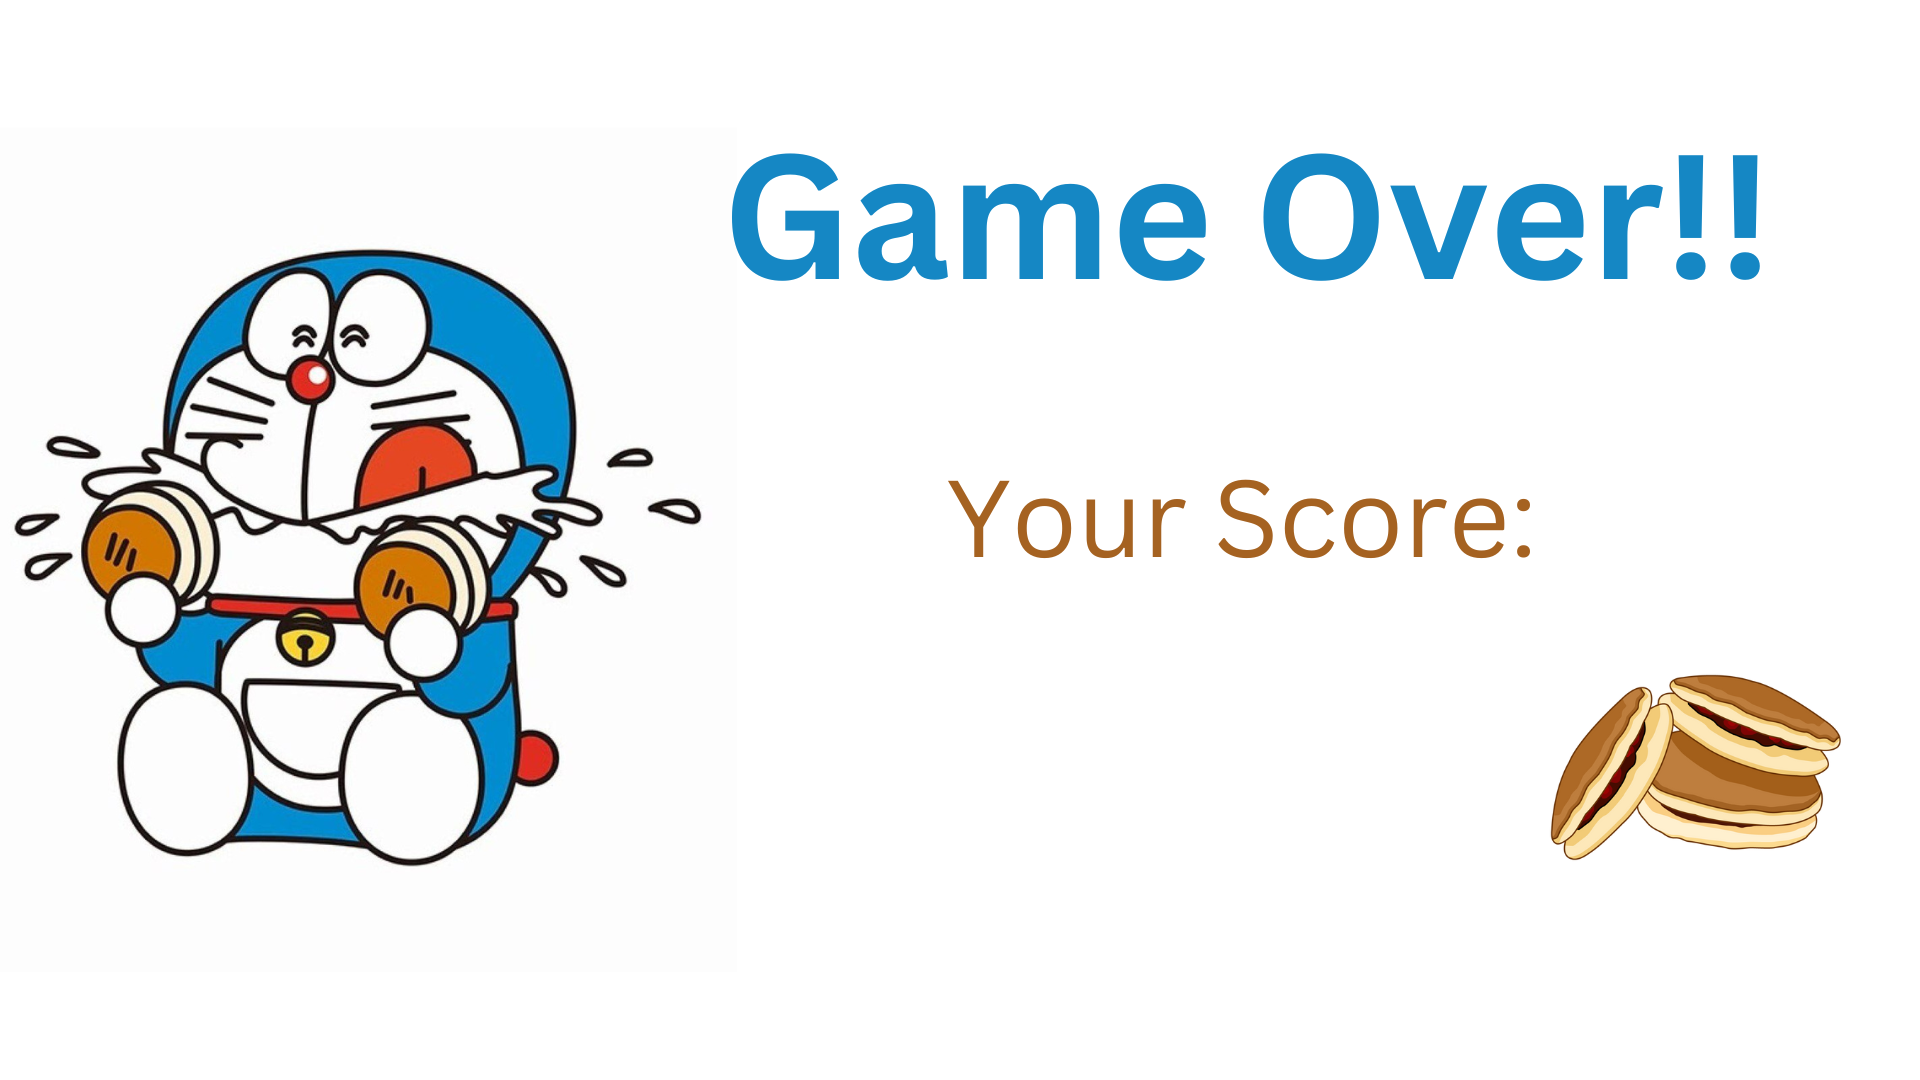
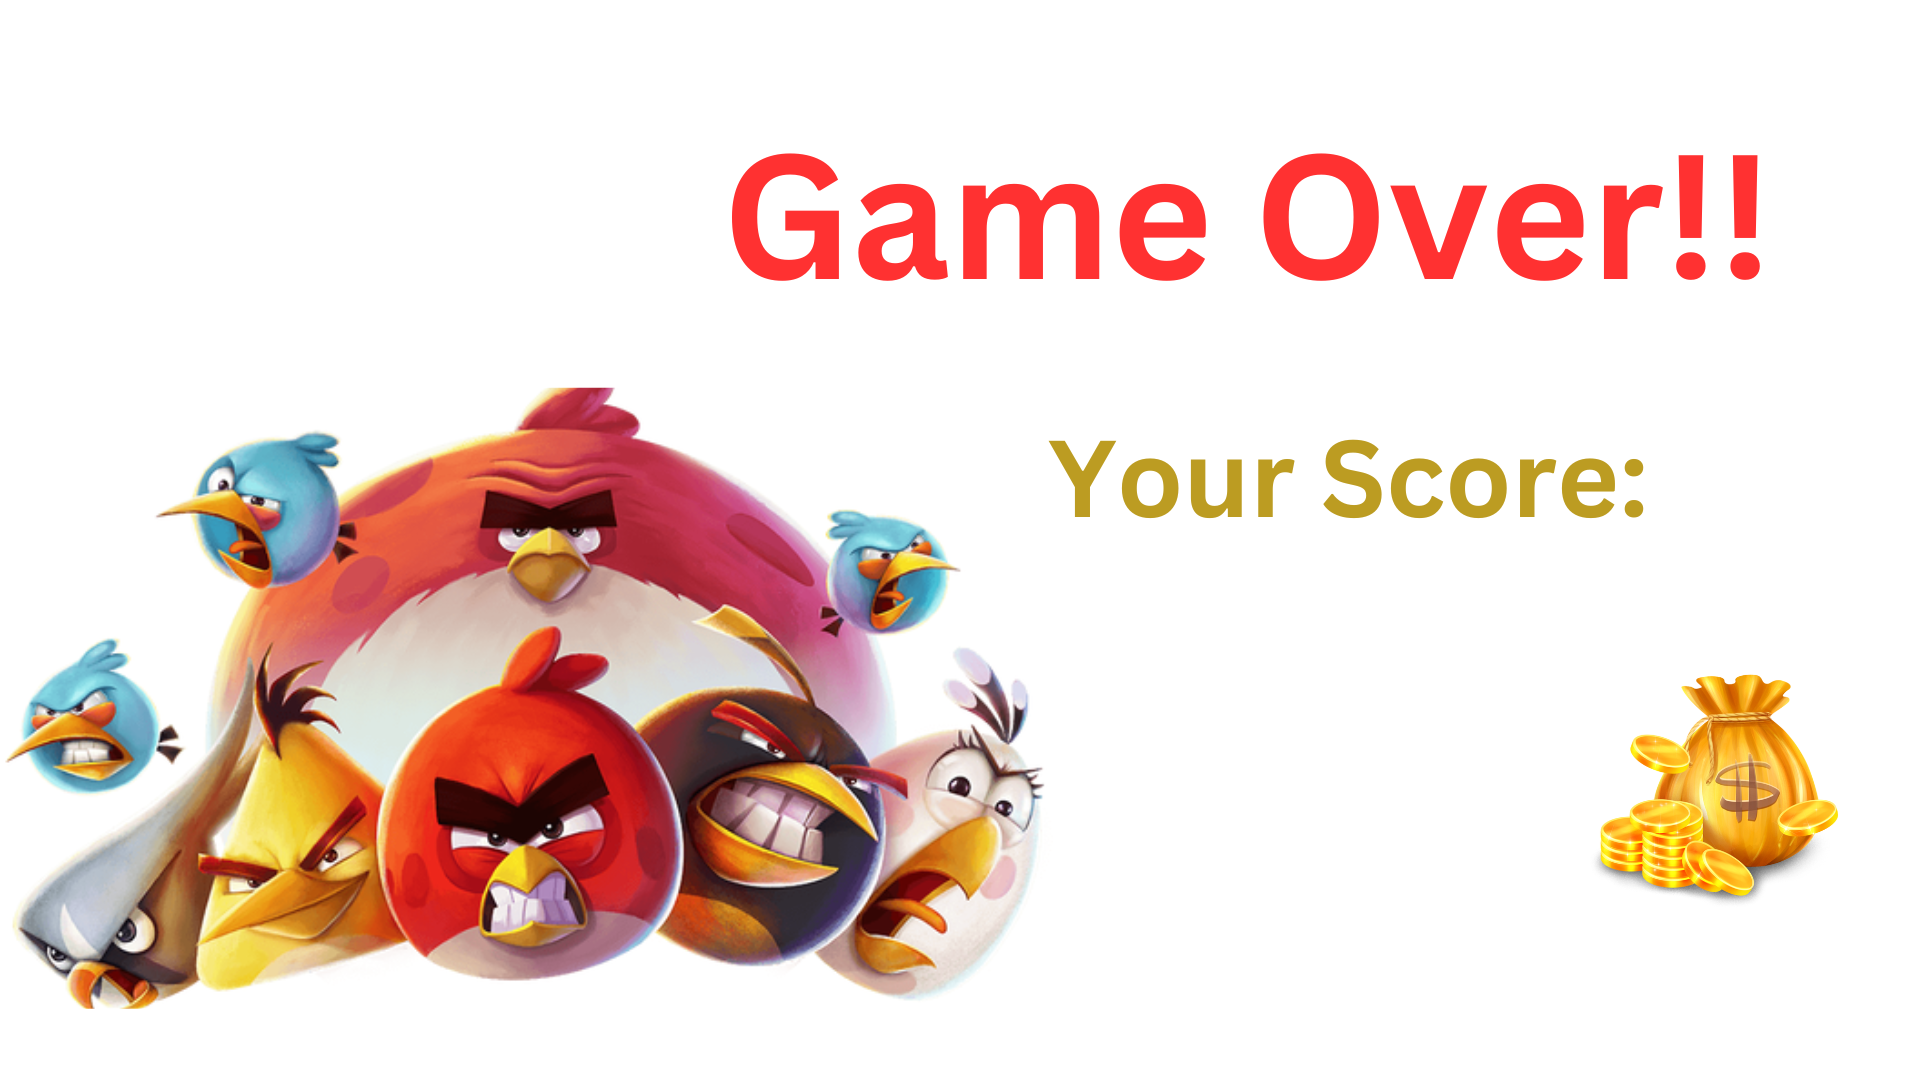
Greedy Birds game1

diff --git a/GreedyBird.py b/GreedyBird.py
@@ -2,6 +2,7 @@ from cvzone.FaceMeshModule import FaceMeshDetector
 import cv2
 import sys,time,random,pygame,os
 from collections import deque
+from Pipes import Pipe,PipeImages
 fpsClock = pygame.time.Clock()
 
 pygame.init()
@@ -9,33 +10,28 @@ cap = cv2.VideoCapture(0,cv2.CAP_DSHOW)
 cap.set(3,1280)
 cap.set(4,720)
 screen=pygame.display.set_mode((1280,720),pygame.RESIZABLE)
-pygame.display.set_caption("Foodie Doraemon")
+pygame.display.set_caption("Greedy Birds")
 pygame.mixer.init()
 pygame.mixer.music.load("Assests\music.mp3")
 pygame.mixer.music.set_volume(1.6)
 pygame.mixer.music.play(-1)
 
-doraemon = pygame.image.load("Assests\doraemon.png")
-doraemon = pygame.transform.scale(doraemon, (doraemon.get_width() / 6, doraemon.get_height() / 6))
-doraemon_frame = doraemon.get_rect()
-doraemon_frame.center = (1280 // 6, 720 // 2)
+birdSprite=[f"Assests\\birds\\{n}.png" for n in range(1,8)]
+bird = pygame.image.load(birdSprite[0])
+bird = pygame.transform.scale(bird, (bird.get_width() / 7, bird.get_height() / 7))
+bird_frame = bird.get_rect()
+bird_frame.center = (1280 // 6, 720 // 2)
 
 dcscore=pygame.image.load("Assests\dcscore.png")
 dcscore=pygame.transform.scale(dcscore,(80,80))
-
-class Pipe:
-    def __init__(self,x):
-        self.dc=pygame.image.load("Assests\DC.png")
-        self.dc=pygame.transform.scale(self.dc,(80,80))
-        self.pipe_img = pygame.image.load("Assests\pipe_sprite_single.png")
-        self.pipeX=1180+x
-        self.pipeY=random.randrange(200,600)
-        self.pipeD=True
 
 
 pipeList=[]
 for i in range(0,4):
     pipeList.append(Pipe(i*300))
+
+sprites=["Assests\coins\\1.png","Assests\coins\\2.png","Assests\coins\\3.png","Assests\coins\\4.png","Assests\coins\\5.png","Assests\coins\\6.png"]
+
 
 detector = FaceMeshDetector(maxFaces=1)
 speed=5
@@ -44,6 +40,7 @@ font = pygame.font.SysFont("Arial", 40)
 font2=pygame.font.SysFont("Arial",130)
 gameOver=False
 run=True
+i=0
 while run:
     for event in pygame.event.get():
         if event.type == pygame.QUIT:
@@ -59,36 +56,42 @@ while run:
             cap.release()
             cv2.destroyAllWindows()
     else:
+            doraemon = pygame.transform.scale(pygame.image.load(birdSprite[i]),(110,110))
+            
             success, img = cap.read()
             _, faces = detector.findFaceMesh(img,draw=False)
             if faces:
-                doraemon_frame.centery=faces[0][94][1]
+                bird_frame.centery=faces[0][94][1]
             img=cv2.flip(img,1).swapaxes(0,1)
             img=cv2.cvtColor(img,cv2.COLOR_BGR2RGB)
             frame = pygame.surfarray.make_surface(img).convert()
             screen.blit(frame,(0,0))
-            screen.blit(doraemon,doraemon_frame)
+            screen.blit(doraemon,bird_frame)
             for obj in pipeList:
+                obj.update()
                 screen.blit(obj.pipe_img,(obj.pipeX,obj.pipeY))
+                screen.blit(obj.Ipipe_img,(obj.pipeX,obj.pipeIY))
                 if obj.pipeD:
                     screen.blit(obj.dc,(obj.pipeX,obj.pipeY-105))
-                if doraemon_frame.collidepoint(obj.pipeX,obj.pipeY-105) and obj.pipeD:
+                if bird_frame.collidepoint(obj.pipeX,obj.pipeY-105) and obj.pipeD:
                     obj.pipeD=False
                     SCORE+=1
                 
-                for i in range(1,11):
-                    if doraemon_frame.collidepoint(obj.pipeX,obj.pipeY+50*i):
+                for j in range(0,11):
+                  if bird_frame.collidepoint(obj.pipeX,obj.pipeY+50*j) or bird_frame.collidepoint(obj.pipeX,950-abs(obj.pipeIY-50*j)):
                         gameOver=True
                 obj.pipeX-=speed
                 if obj.pipeX<0:
-                    obj.pipeY=random.randint(200,600)
-                    obj.pipeX=1180
-                    obj.pipeD=True
+                    OBJ=pipeList.pop(0)
+                    del OBJ
+                    pipeList.append(Pipe(0))
+
             else:
                 speed+=0.03
-            text = font.render(f"Score:{SCORE}", True,(0,0,0))
+            text = font.render(f"Score:{SCORE}", True,(255,255,255))
             screen.blit(text,(20,50))
             screen.blit(dcscore,(150,30))
+    i=(i+1)%7
     pygame.display.update()
     fpsClock.tick(30)
 

diff --git a/Pipes.py b/Pipes.py
@@ -1,0 +1,24 @@
+import pygame,random,image
+
+
+
+PipeImages=["Assests\green.png","Assests\\blue.png","Assests\yellow.png","Assests\\red.png"]
+
+
+
+class Pipe:
+    def __init__(self,x):
+        self.sprites=["Assests\coins\\1.png","Assests\coins\\2.png","Assests\coins\\3.png","Assests\coins\\4.png","Assests\coins\\5.png","Assests\coins\\6.png"]
+        self.index=0
+        self.dc=image.load(self.sprites[self.index])
+        self.dc=pygame.transform.scale(self.dc,(80,80))
+        self.pipe_img = pygame.image.load(random.choice(PipeImages))
+        self.Ipipe_img=pygame.transform.flip(self.pipe_img,False,True)
+        self.pipeX=1180+x
+        self.pipeY=random.randint(300,600)
+        self.pipeIY=self.pipeY-150-1000
+        self.pipeD=True
+    def update(self):
+        self.index=(self.index+1)%6
+        self.dc=image.load(self.sprites[self.index])
+        self.dc=pygame.transform.scale(self.dc,(80,80))

diff --git a/image.py b/image.py
@@ -1,0 +1,23 @@
+import pygame
+
+def load(img_path,size="default",convert="alpha",flip=False):
+    if convert=="alpha":
+        img=pygame.image.load(img_path).convert_alpha()
+    else:
+        img=pygame.image.load(img_path).convert()
+    if flip:
+        img=pygame.transform.flip(img,True,False)
+    if size != "default":
+        img = scale(img, size)
+
+    return img
+
+def scale(img,size):
+    return pygame.transform.smoothscale(img,size)
+
+def draw(surface,img,pos,pos_mode="top_left"):
+    if pos_mode=="center":
+        pos=list(pos)
+        pos[0]-=img.get_width()//2
+        pos[1]-=img.get_height()//2
+    surface.blit(img,pos)
